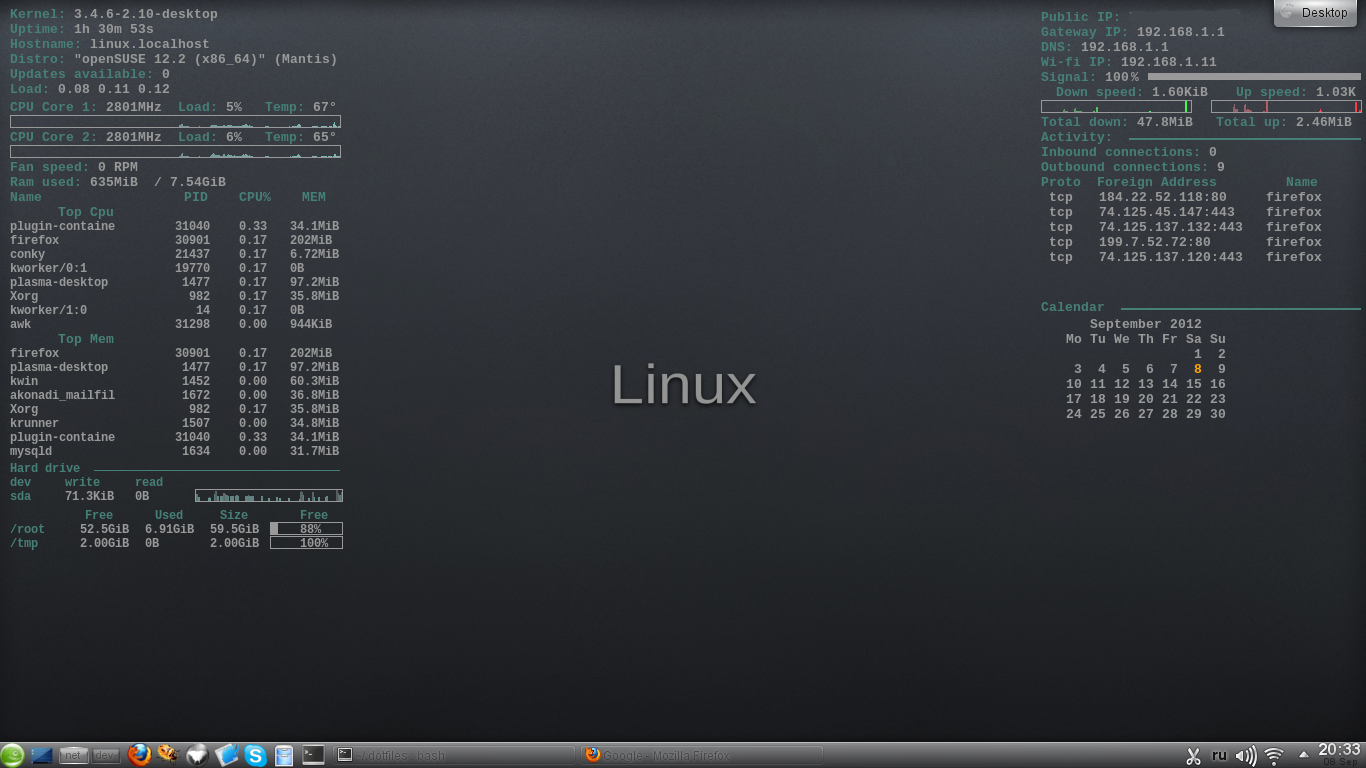
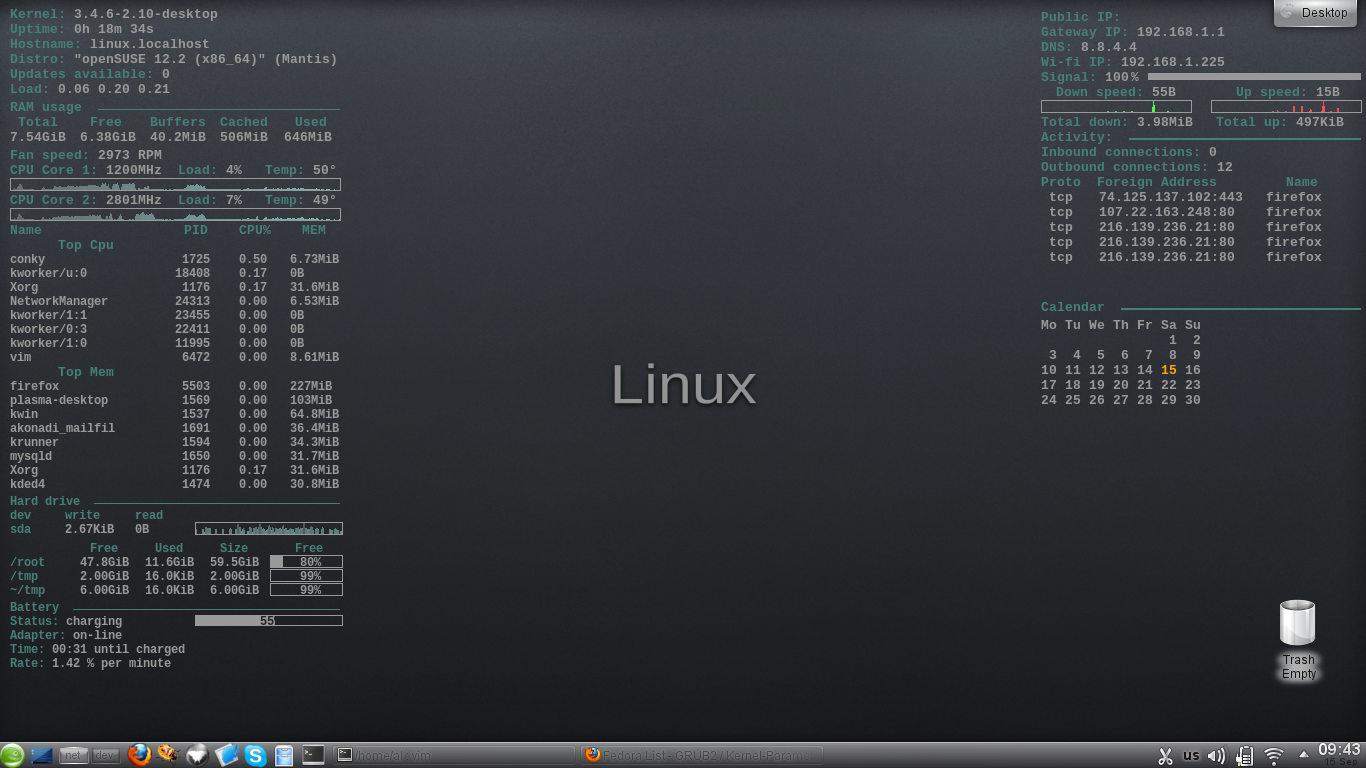
no logs into conky(maybe later), no weather (will be added later), new screenshot, info about battery and more fixes

diff --git a/README.md b/README.md
@@ -1,6 +1,8 @@
 my dotfiles  
 description: comming soon..
 
-Conky:  
+##Conky:  
 Configuration for one and one more monitors  
 <img src='https://github.com/alexbel/dotfiles/tree/master/.conky/1366x768.png' width='800' alt="resolution 1366x768">
+
+###dependencies
